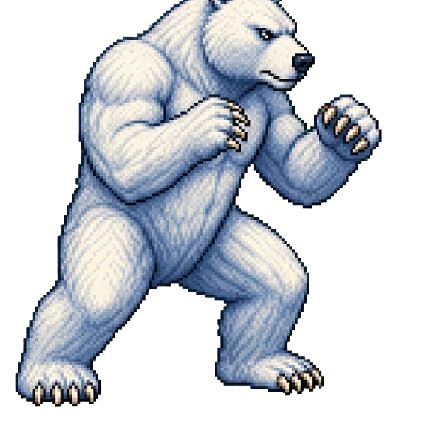
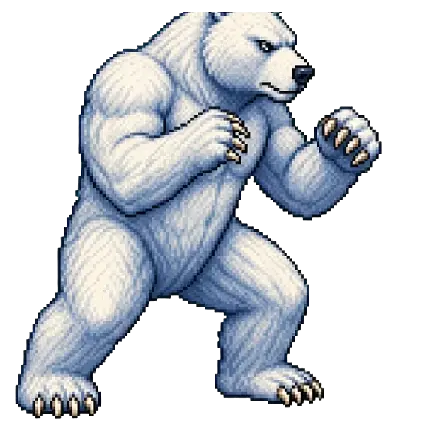
Fix animal sprite and stat layout regressions

diff --git a/src/styles.css b/src/styles.css
@@ -47,8 +47,8 @@ button:focus-visible { outline: 4px solid white; outline-offset: 3px; }
 .animal-card small { display: block; font-size: 5px; line-height: 1.5; color: #9bb1b9; }
 .animal-attributes { display: flex; justify-content: center; gap: 7px; color: #50bce5; font-size: 6px; line-height: 1.4; text-transform: uppercase; }
 .animal-attributes b { color: var(--gold); }
-.animal-card .animal-attributes { width: 100%; display: grid; grid-template-columns: repeat(4, minmax(0, 1fr)); gap: 2px; margin-bottom: 7px; }
-.animal-card .animal-attributes > span { min-width: 0; }
+.animal-card .animal-attributes { width: 100%; display: grid; grid-template-columns: repeat(2, minmax(0, 1fr)); gap: 3px 8px; margin-bottom: 7px; }
+.animal-card .animal-attributes > span { min-width: 0; white-space: nowrap; }
 .pixel-animal { display: block; object-fit: contain; image-rendering: pixelated; user-select: none; }
 .pixel-animal.portrait { width: 100%; height: clamp(120px, 19vh, 185px); }
 .pixel-animal.fighter { width: 92%; height: auto; aspect-ratio: 1; align-self: end; }
